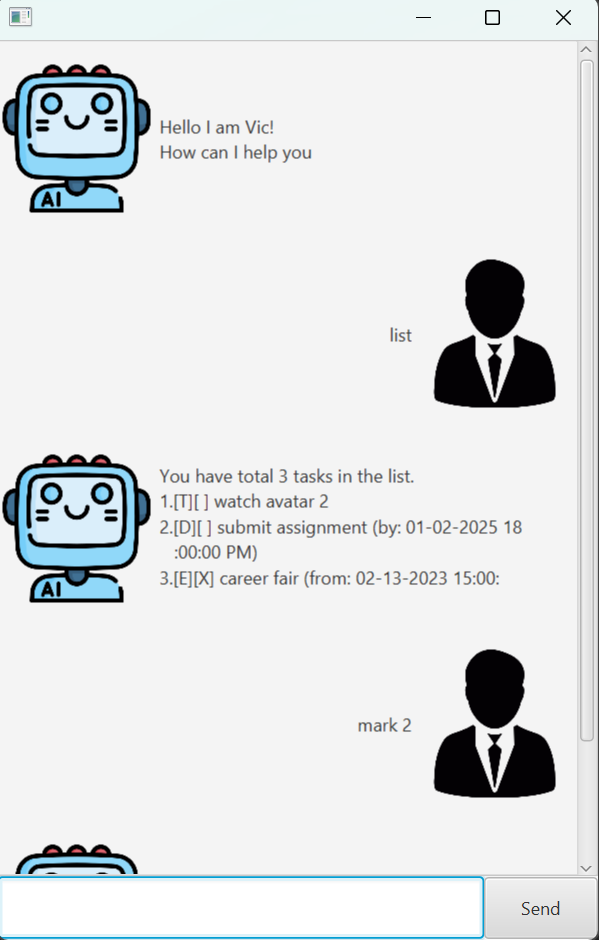
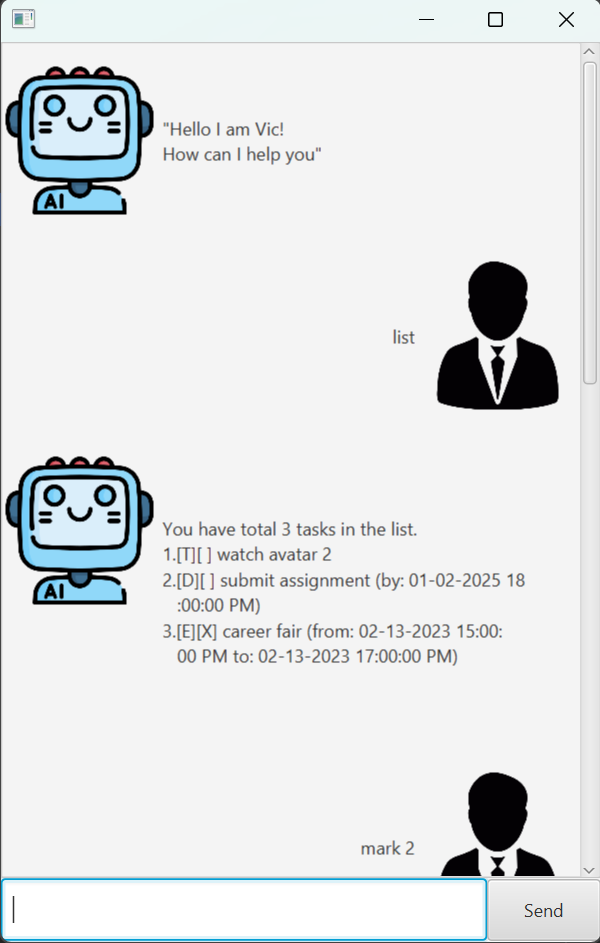
Fix Ui line height issue

diff --git a/src/main/java/vic/gui/DialogBox.java b/src/main/java/vic/gui/DialogBox.java
@@ -14,6 +14,7 @@ import javafx.scene.control.Label;
 import javafx.scene.image.Image;
 import javafx.scene.image.ImageView;
 import javafx.scene.layout.HBox;
+import vic.gui.model.DialogBoxInput;
 
 /**
  * An example of a custom control using FXML.
@@ -23,6 +24,7 @@ import javafx.scene.layout.HBox;
  */
 public class DialogBox extends HBox {
     private static final int LINE_LIMIT = 45;
+    private static final int LINE_HEIGHT = 30;
 
     @FXML
     private Label dialog;
@@ -40,30 +42,38 @@ public class DialogBox extends HBox {
         } catch (IOException e) {
             e.printStackTrace();
         }
-
-        dialog.setText(formatInput(text));
+        DialogBoxInput dialogBoxInput = formatInput(text);
+        dialog.setMinHeight(dialogBoxInput.getLineNumber() * LINE_HEIGHT);
+        dialog.setText(formatInput(text).getInput());
         displayPicture.setImage(img);
     }
 
-    private static String formatLine(String input) {
+
+
+    private static DialogBoxInput formatLine(String input) {
         int lineLimit = LINE_LIMIT;
         String output = input;
+        int lines = 0;
         while (lineLimit < output.length()) {
             output = output.substring(0, lineLimit) + "\n   "
                     + output.substring(lineLimit);
             lineLimit += lineLimit + 1;
+            lines++;
         }
-        return output;
+        return new DialogBoxInput(output, lines);
     }
 
-    private static String formatInput(String input) {
+    private static DialogBoxInput formatInput(String input) {
         StringBuilder result = new StringBuilder();
         String[] lines = input.split("\n");
+        int numberOfLines = 0;
         for (String line: lines) {
-            result.append(formatLine(line));
+            DialogBoxInput dialogBoxInput = formatLine(line);
+            result.append(dialogBoxInput.getInput());
             result.append("\n");
+            numberOfLines += dialogBoxInput.getLineNumber() + 1;
         }
-        return result.toString();
+        return new DialogBoxInput(result.toString(), numberOfLines);
 
     }
 

diff --git a/src/main/java/vic/gui/model/DialogBoxInput.java b/src/main/java/vic/gui/model/DialogBoxInput.java
@@ -1,0 +1,32 @@
+package vic.gui.model;
+
+
+/**
+ * A Model Class use to model the attribute for DialogBox Input
+ */
+public class DialogBoxInput {
+    private final int lineNumber;
+    private final String input;
+
+    /**
+     * Constructor for DialogBoxInput
+     *
+     * @param input the input to be print
+     * @param lineNumber number of lines for the input
+     */
+    public DialogBoxInput(String input, int lineNumber) {
+        this.input = input;
+        this.lineNumber = lineNumber;
+    }
+
+
+    public String getInput() {
+        return input;
+    }
+
+    public int getLineNumber() {
+        return lineNumber;
+    }
+
+
+}
